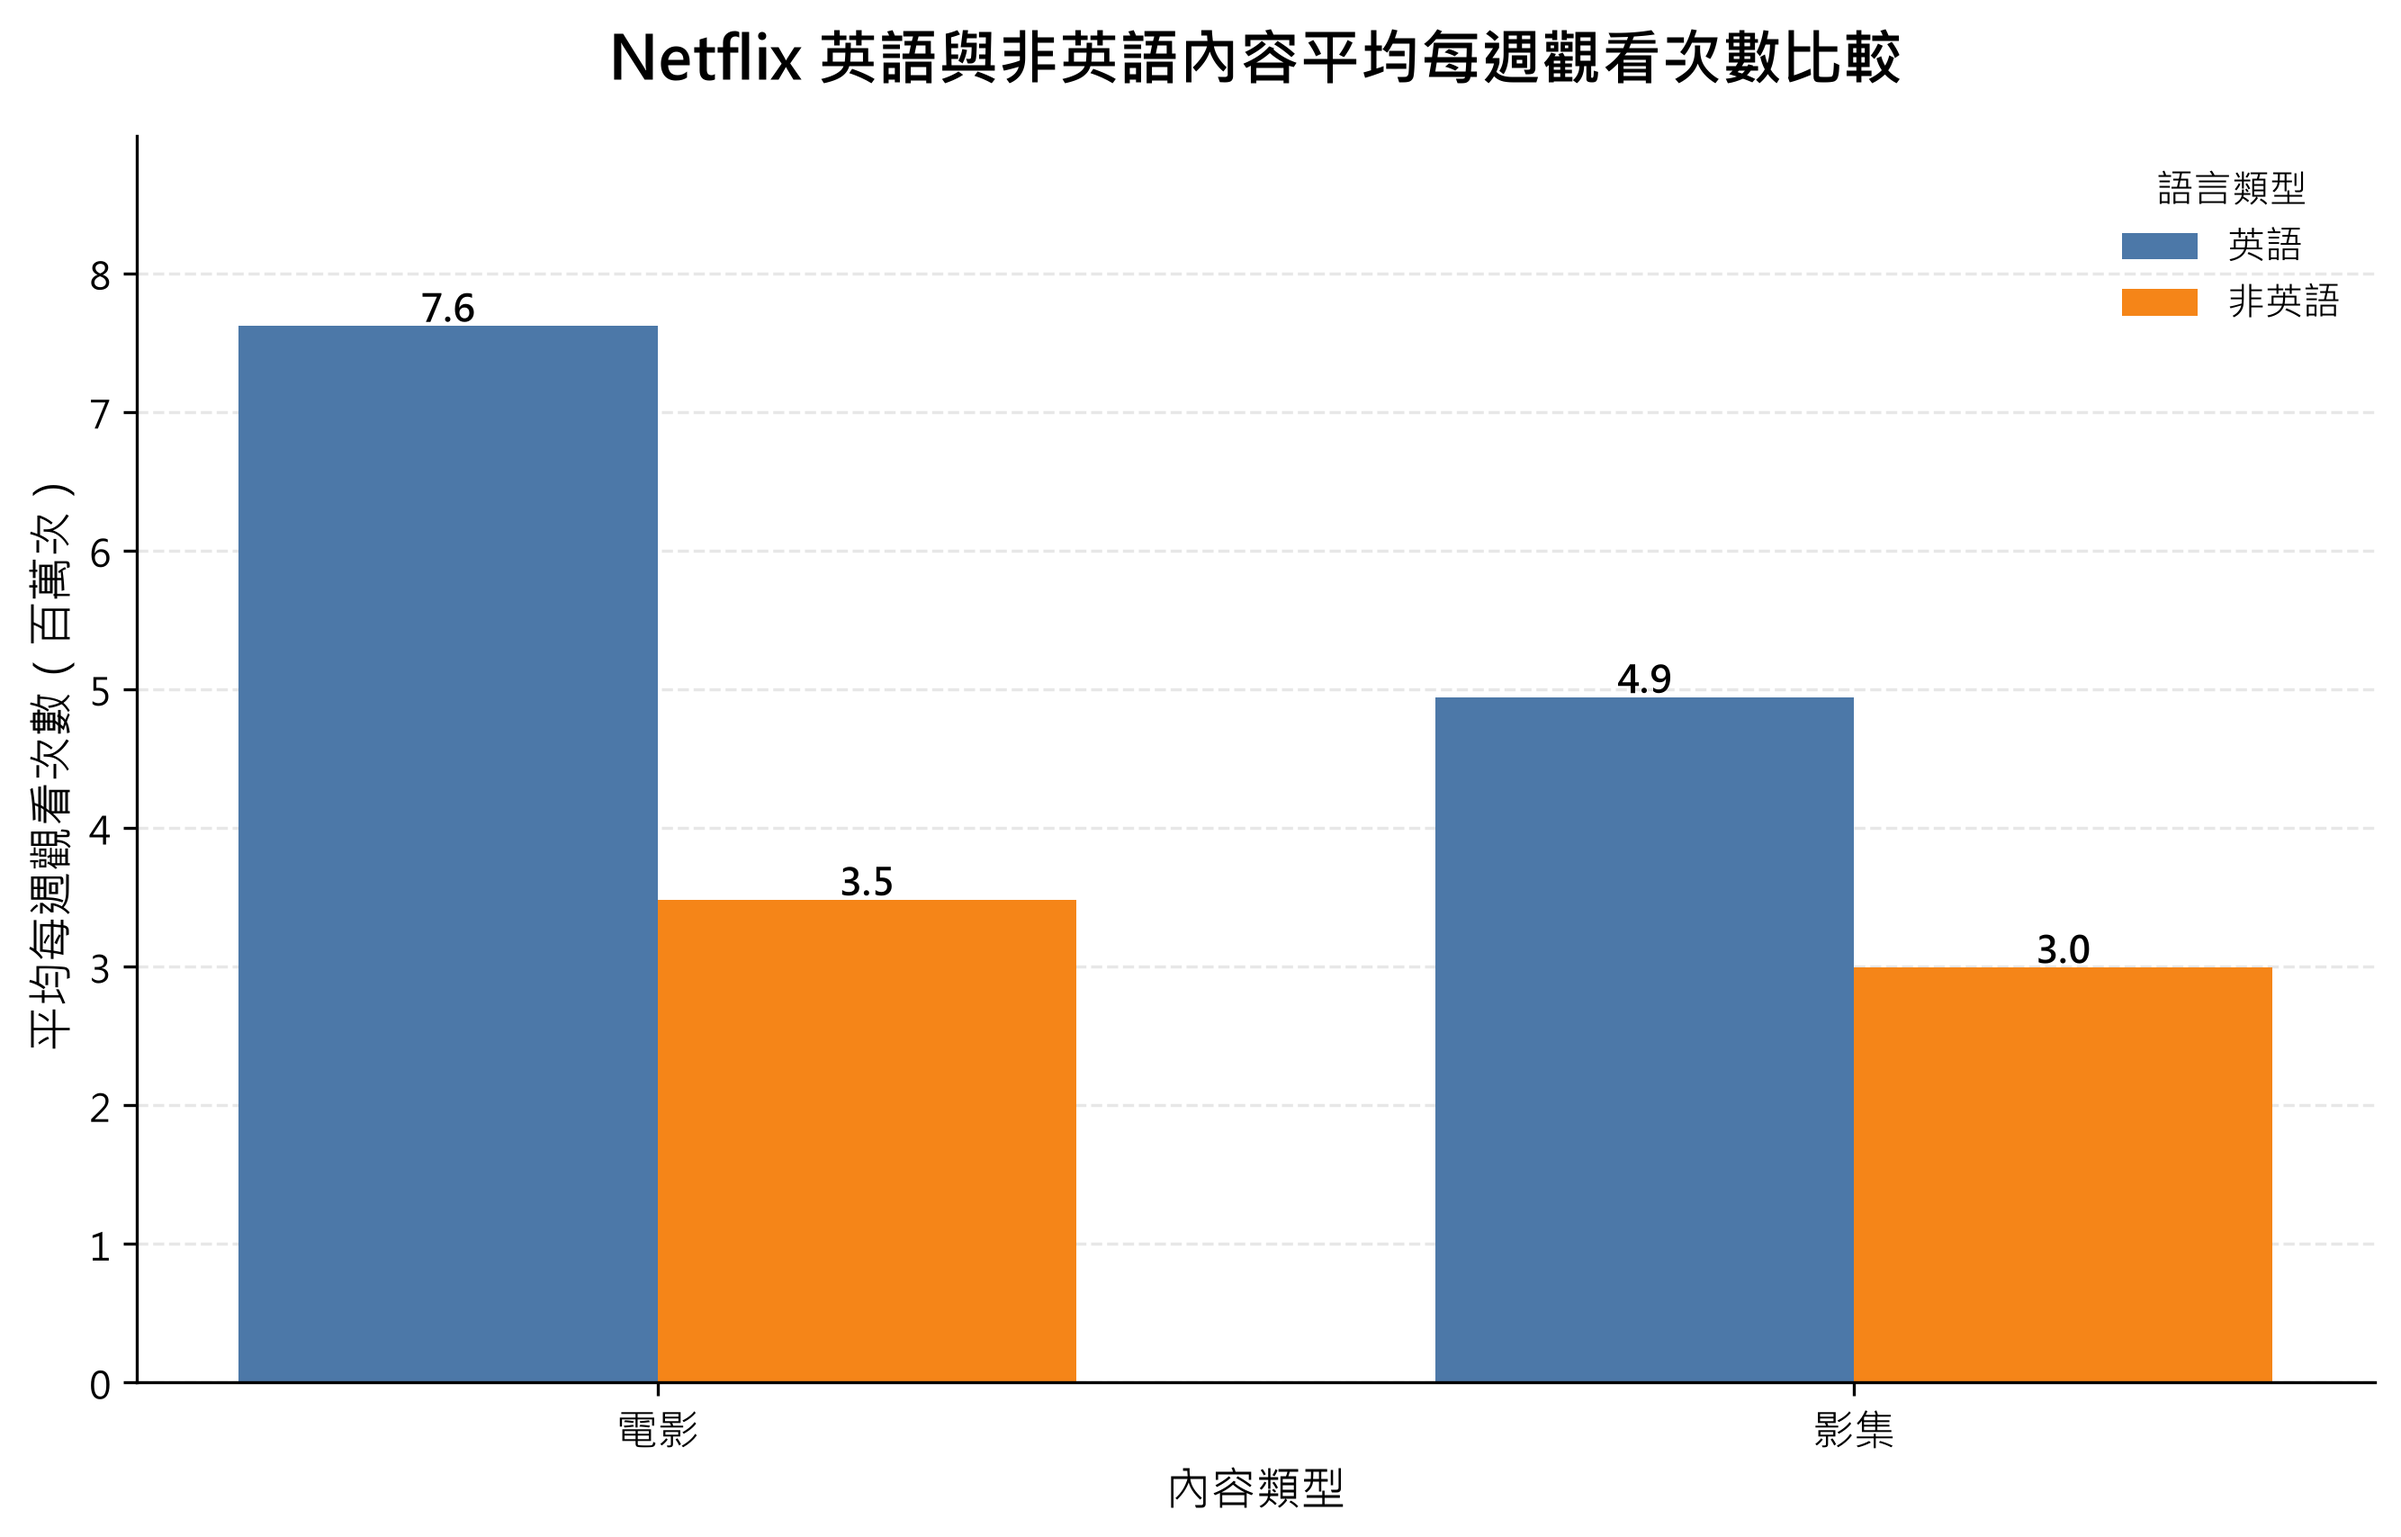
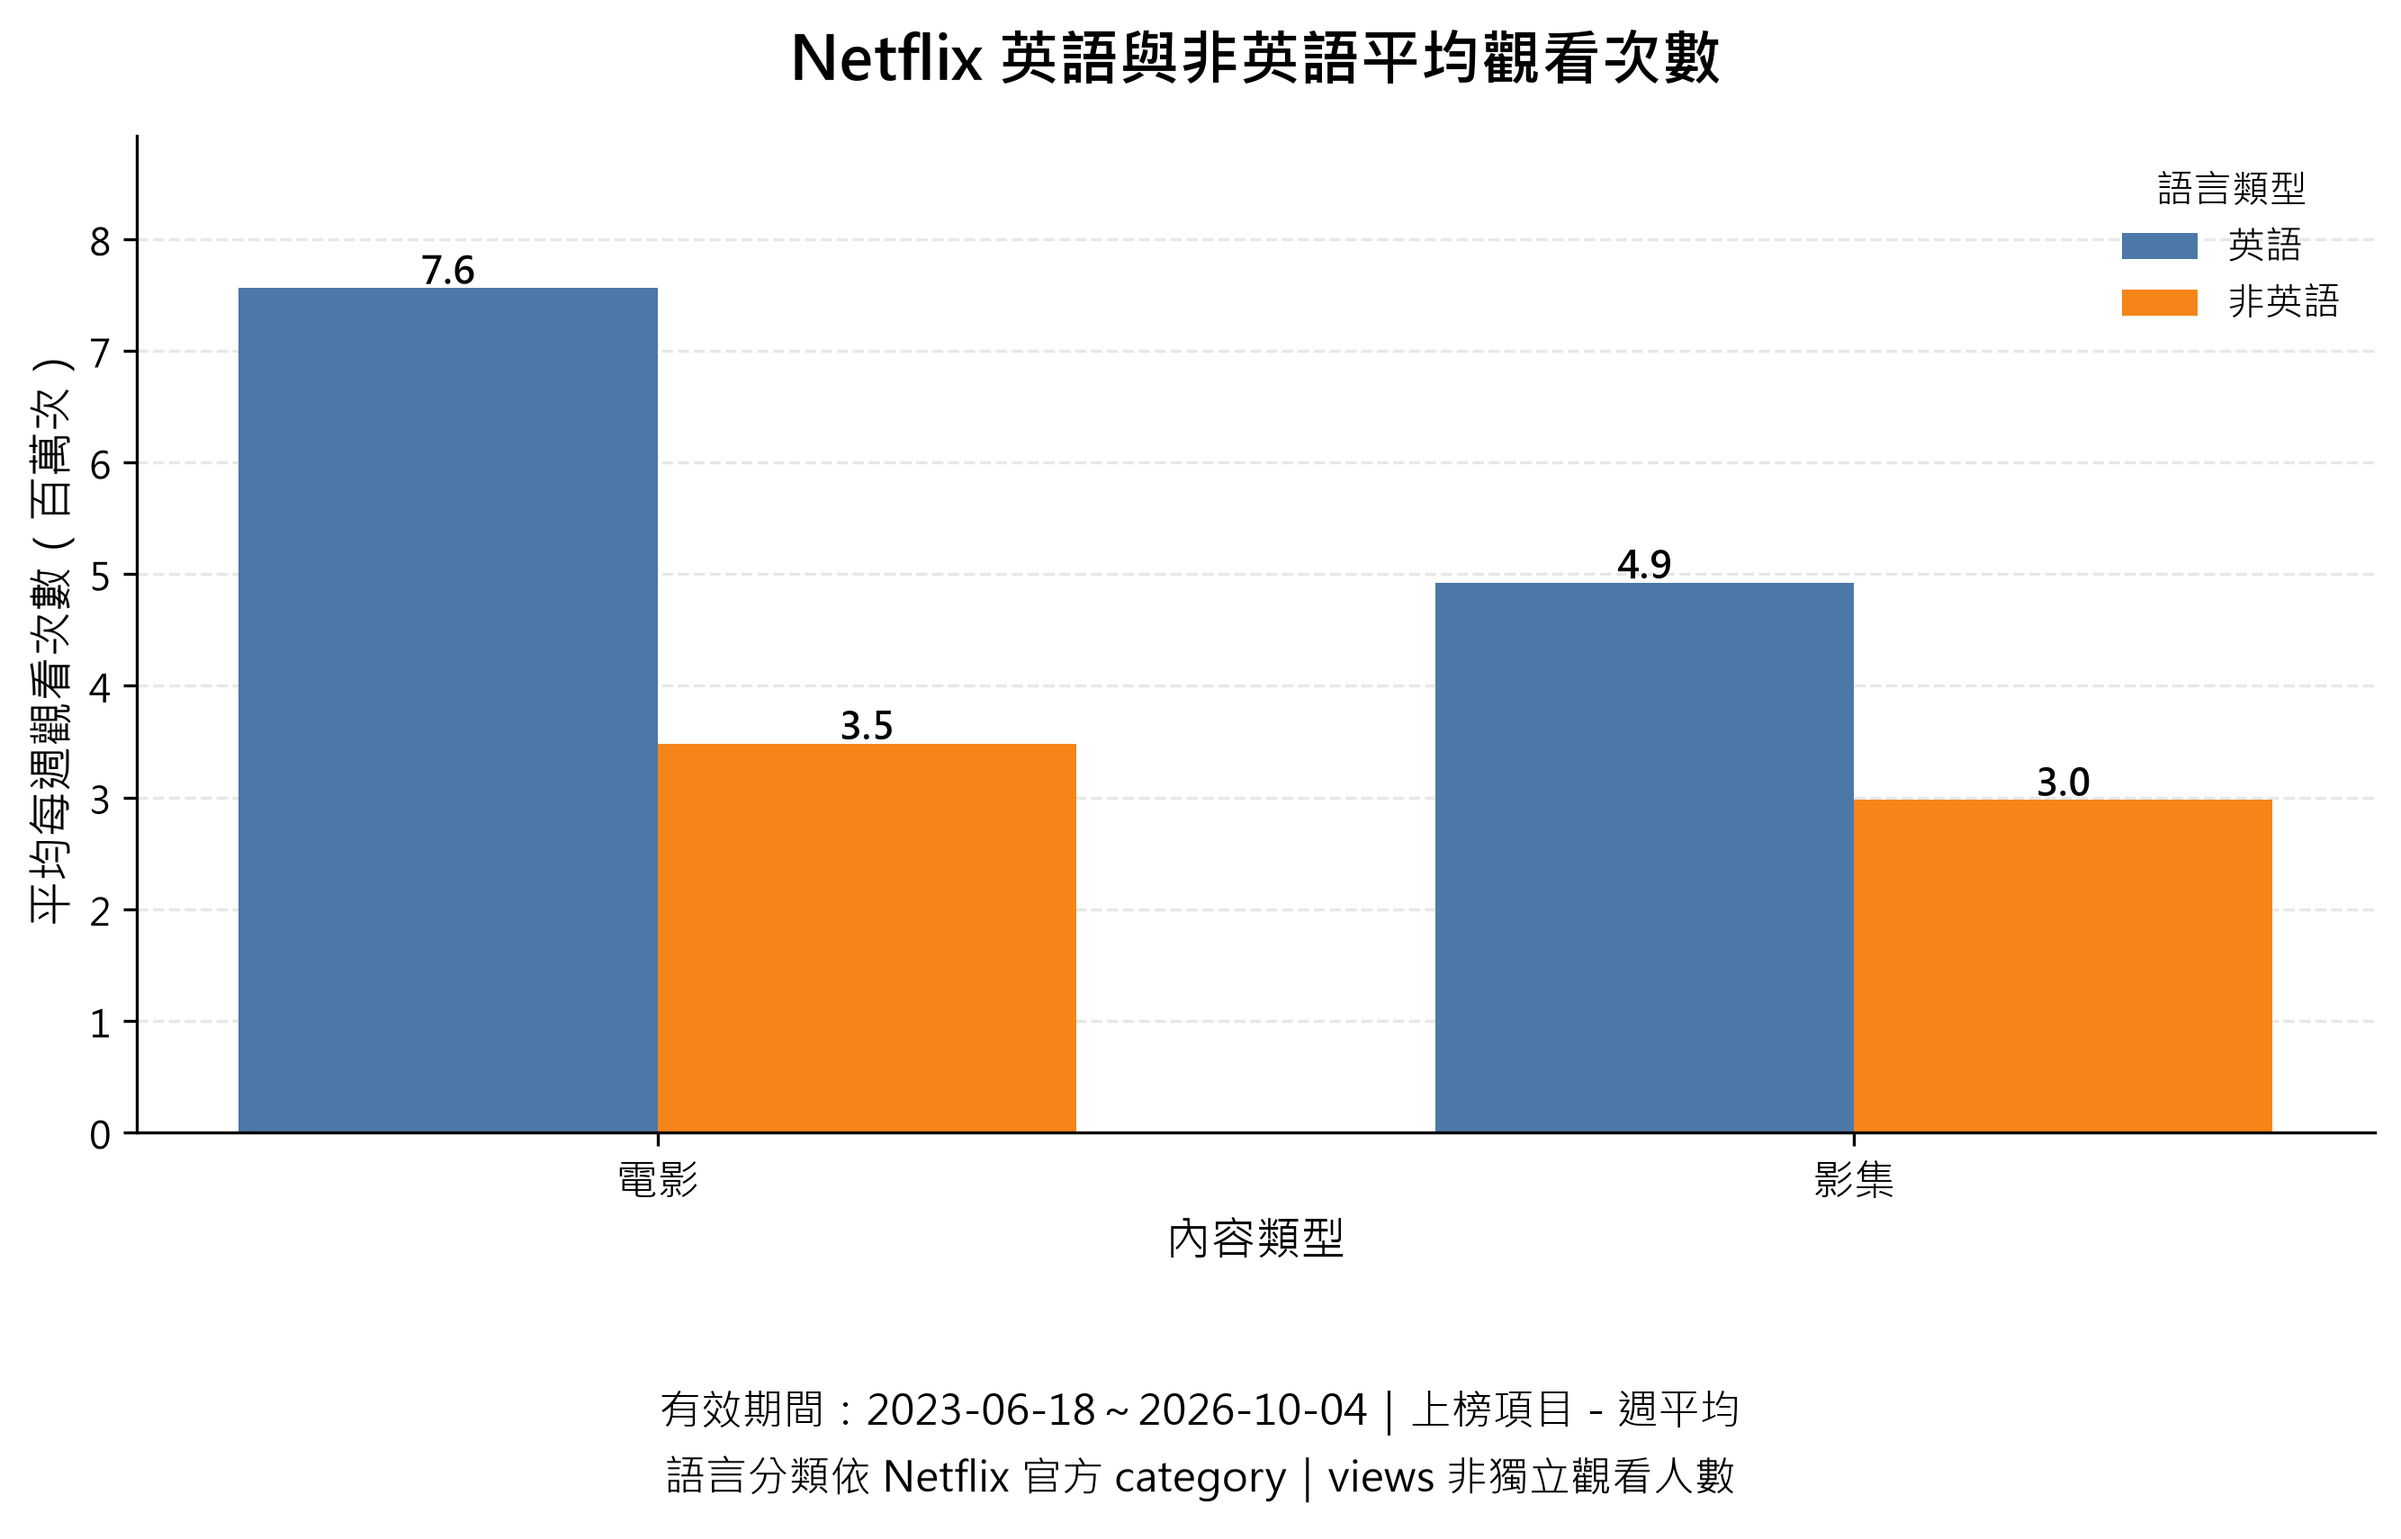
feat: finalize Netflix charts with validated snapshot results

diff --git a/scripts/visualize.py b/scripts/visualize.py
@@ -21,6 +21,20 @@ PROJECT_ROOT = Path(__file__).resolve().parent.parent
 DEFAULT_CHARTS_DIR = PROJECT_ROOT / "charts"
 
 
+def _data_period(df, views_only=False):
+    """圖註日期取自輸入資料，避免固定快照日期套到其他資料。"""
+    weeks = df.loc[df["weekly_views"].notna(), "week"] if views_only else df["week"]
+    if weeks.empty:
+        return "無有效資料"
+    return f"{weeks.min():%Y-%m-%d}～{weeks.max():%Y-%m-%d}"
+
+
+def _add_chart_note(fig, text):
+    """保留底部空間，讓一至兩行口徑說明與座標軸分開。"""
+    fig.text(0.5, 0.025, text, ha="center", va="bottom", fontsize=11, linespacing=1.6)
+    fig.tight_layout(rect=(0, 0.16, 1, 1))
+
+
 def configure_chinese_font():
     # 設定 Matplotlib 可用的中文字型。
 
@@ -75,7 +89,7 @@ def plot_content_type_comparison(
     )
 
     ax.set_title(
-        "Netflix 電影與影集平均每週觀看次數比較",
+        "Netflix 電影與影集平均觀看次數",
         fontsize=16,
         fontweight="bold",
         pad=15,
@@ -117,7 +131,11 @@ def plot_content_type_comparison(
     ax.spines["top"].set_visible(False)
     ax.spines["right"].set_visible(False)
 
-    plt.tight_layout()
+    _add_chart_note(
+        fig,
+        f"有效期間：{_data_period(df, views_only=True)}｜上榜項目－週平均\n"
+        "Netflix 全球 Top 10｜views＝觀看時數÷片長，非獨立觀看人數",
+    )
 
     charts_dir = Path(charts_dir)
     charts_dir.mkdir(parents=True, exist_ok=True)
@@ -181,7 +199,7 @@ def plot_language_comparison(
     )
 
     ax.set_title(
-        "Netflix 英語與非英語內容平均每週觀看次數比較",
+        "Netflix 英語與非英語平均觀看次數",
         fontsize=16,
         fontweight="bold",
         pad=15,
@@ -239,7 +257,11 @@ def plot_language_comparison(
     ax.spines["top"].set_visible(False)
     ax.spines["right"].set_visible(False)
 
-    plt.tight_layout()
+    _add_chart_note(
+        fig,
+        f"有效期間：{_data_period(df, views_only=True)}｜上榜項目－週平均\n"
+        "語言分類依 Netflix 官方 category｜views 非獨立觀看人數",
+    )
 
     charts_dir = Path(charts_dir)
     charts_dir.mkdir(parents=True, exist_ok=True)
@@ -289,7 +311,7 @@ def plot_top_titles(
     labels = [format_top_title_label(row) for _, row in top_titles.iterrows()]
     positions = np.arange(len(top_titles))
 
-    fig, ax = plt.subplots(figsize=(10, 6.5))
+    fig, ax = plt.subplots(figsize=(10, 7.5))
 
     bars = ax.barh(
         positions,
@@ -338,7 +360,13 @@ def plot_top_titles(
     ax.spines["top"].set_visible(False)
     ax.spines["right"].set_visible(False)
 
-    plt.tight_layout()
+    # 排行本身不要求 week；簡化輸入沒有日期時，不捏造資料截止日。
+    cutoff = f"{df['week'].max():%Y-%m-%d}" if "week" in df and not df.empty else "未提供日期"
+    _add_chart_note(
+        fig,
+        f"資料截止：{cutoff}｜Netflix 全球 Top 10\n"
+        "電影或影集季度／標籤各自取最大累積週數，不加總不同季度",
+    )
 
     charts_dir = Path(charts_dir)
     charts_dir.mkdir(parents=True, exist_ok=True)
@@ -376,7 +404,7 @@ def plot_weekly_hours_trend(
         weekly_total_hours.index,
         weekly_total_hours.values,
         linewidth=1.2,
-        alpha=0.45,
+        alpha=0.8,
         color="#9E9E9E",
         label="每週總觀看時數",
     )
@@ -386,11 +414,11 @@ def plot_weekly_hours_trend(
         moving_average.values,
         linewidth=2.8,
         color="#C62828",
-        label="13 週移動平均趨勢",
+        label="13 週置中移動平均",
     )
 
     ax.set_title(
-        "Netflix Top 10 整體每週觀看時數趨勢",
+        "Netflix 全球 Top 10 四類榜單每週觀看時數合計",
         fontsize=16,
         fontweight="bold",
         pad=15,
@@ -409,6 +437,7 @@ def plot_weekly_hours_trend(
     ax.xaxis.set_major_locator(mdates.YearLocator())
 
     ax.xaxis.set_major_formatter(mdates.DateFormatter("%Y"))
+    ax.set_xlim(weekly_total_hours.index.min(), weekly_total_hours.index.max())
 
     ax.legend(
         frameon=False,
@@ -426,7 +455,11 @@ def plot_weekly_hours_trend(
     ax.spines["top"].set_visible(False)
     ax.spines["right"].set_visible(False)
 
-    plt.tight_layout()
+    _add_chart_note(
+        fig,
+        f"資料期間：{_data_period(df)}｜13 週置中平均，兩端各 6 週無平滑值\n"
+        "2023 年 Netflix 排名方法曾變更，跨期比較需留意；此圖非全平台觀看量",
+    )
 
     charts_dir = Path(charts_dir)
     charts_dir.mkdir(parents=True, exist_ok=True)
@@ -462,10 +495,23 @@ def plot_correlation_distribution(
 
     summary = summarize_correlations(segment_results)
 
-    fig, ax = plt.subplots(figsize=(10, 6))
+    fig, ax = plt.subplots(figsize=(10, 7))
+    fig.suptitle(
+        "Netflix 作品連續上榜越久，觀看次數通常越少嗎？",
+        fontsize=16, fontweight="bold", y=0.97,
+    )
+    fig.text(
+        0.5, 0.91,
+        f"連續上榜週次與當週觀看次數的相關性｜{summary['segment_count']} 個有效區段",
+        ha="center", fontsize=12,
+    )
+    note = (
+        f"有效 weekly_views：{_data_period(df, views_only=True)}｜至少連續 {minimum_weeks} 個有效上榜觀測週\n"
+        "每個有效區段等權，非每部作品等權｜不代表完整上榜生命週期｜相關不等於因果"
+    )
+    fig.text(0.5, 0.025, note, ha="center", va="bottom", fontsize=10.5, linespacing=1.6)
 
     if summary["segment_count"] == 0:
-        ax.set_title(f"至少連續上榜 {minimum_weeks} 週區段的觀看熱度相關係數分布")
         ax.text(
             0.5, 0.5, "無符合條件資料\n有效區段：0",
             transform=ax.transAxes, ha="center", va="center", fontsize=16,
@@ -474,7 +520,7 @@ def plot_correlation_distribution(
         charts_dir = Path(charts_dir)
         charts_dir.mkdir(parents=True, exist_ok=True)
         output_path = charts_dir / "05_continuous_run_correlation_distribution.png"
-        plt.tight_layout()
+        fig.subplots_adjust(left=0.09, right=0.97, bottom=0.28, top=0.79)
         plt.savefig(output_path, dpi=300, bbox_inches="tight")
         plt.close()
         return output_path
@@ -511,16 +557,16 @@ def plot_correlation_distribution(
         label="零相關",
     )
 
-    ax.set_title(
-        f"至少連續上榜 {minimum_weeks} 週區段的觀看熱度相關係數分布",
-        fontsize=16,
-        fontweight="bold",
-        pad=15,
-    )
+    # 結論跟隨輸入資料，不把本次快照的主要趨勢套到其他樣本。
+    if summary["pearson_negative_ratio"] > 0.5 and summary["spearman_negative_ratio"] > 0.5:
+        conclusion = "多數符合條件的區段：上榜週次增加，當週觀看次數傾向下降。"
+    else:
+        conclusion = "相關方向與強弱見下圖；比例僅描述符合條件的區段。"
+    fig.text(0.5, 0.855, conclusion, ha="center", fontsize=12, fontweight="bold")
 
     ax.set_xlabel(
-        "連續上榜週次與當週觀看次數的相關係數",
-        fontsize=12,
+        "相關係數：-1 強負相關｜0 無線性／單調相關｜+1 強正相關",
+        fontsize=11,
     )
 
     ax.set_ylabel(
@@ -532,6 +578,8 @@ def plot_correlation_distribution(
         -1.05,
         1.05,
     )
+    fig.text(0.09, 0.155, "← 負相關：週次越後，觀看次數傾向越少", fontsize=11, ha="left")
+    fig.text(0.97, 0.155, "正相關：週次越後，觀看次數傾向越多 →", fontsize=11, ha="right")
 
     ax.yaxis.grid(
         True,
@@ -545,16 +593,14 @@ def plot_correlation_distribution(
     ax.spines["right"].set_visible(False)
 
     summary_text = (
-        f"有效區段："
-        f"{summary['segment_count']}\n"
+        f"Pearson 負相關區段："
+        f"{summary['pearson_negative_ratio']:.1%}\n"
+        f"Spearman 負相關區段："
+        f"{summary['spearman_negative_ratio']:.1%}\n"
         f"Pearson 中位數："
         f"{summary['pearson_median']:.4f}\n"
-        f"Pearson 負相關："
-        f"{summary['pearson_negative_ratio']:.1%}\n"
         f"Spearman 中位數："
-        f"{summary['spearman_median']:.4f}\n"
-        f"Spearman 負相關："
-        f"{summary['spearman_negative_ratio']:.1%}"
+        f"{summary['spearman_median']:.4f}"
     )
 
     ax.text(
@@ -564,7 +610,7 @@ def plot_correlation_distribution(
         transform=ax.transAxes,
         ha="right",
         va="top",
-        fontsize=10.5,
+        fontsize=12,
         bbox={
             "boxstyle": "round,pad=0.5",
             "facecolor": "white",
@@ -578,7 +624,7 @@ def plot_correlation_distribution(
         loc="lower right",
     )
 
-    plt.tight_layout()
+    fig.subplots_adjust(left=0.09, right=0.97, bottom=0.28, top=0.79)
 
     charts_dir = Path(charts_dir)
     charts_dir.mkdir(parents=True, exist_ok=True)
